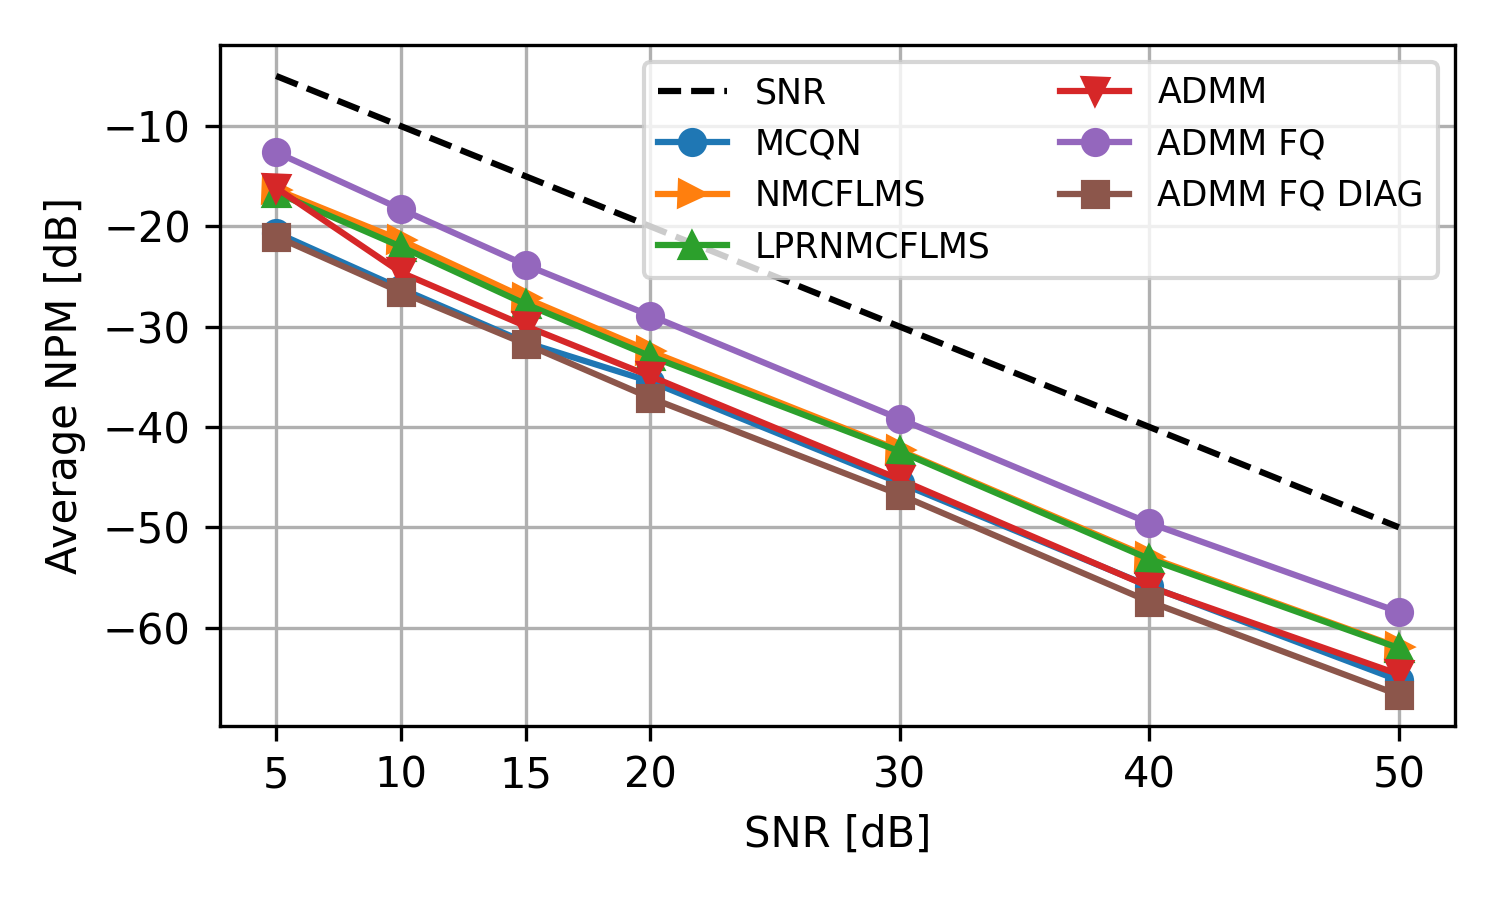
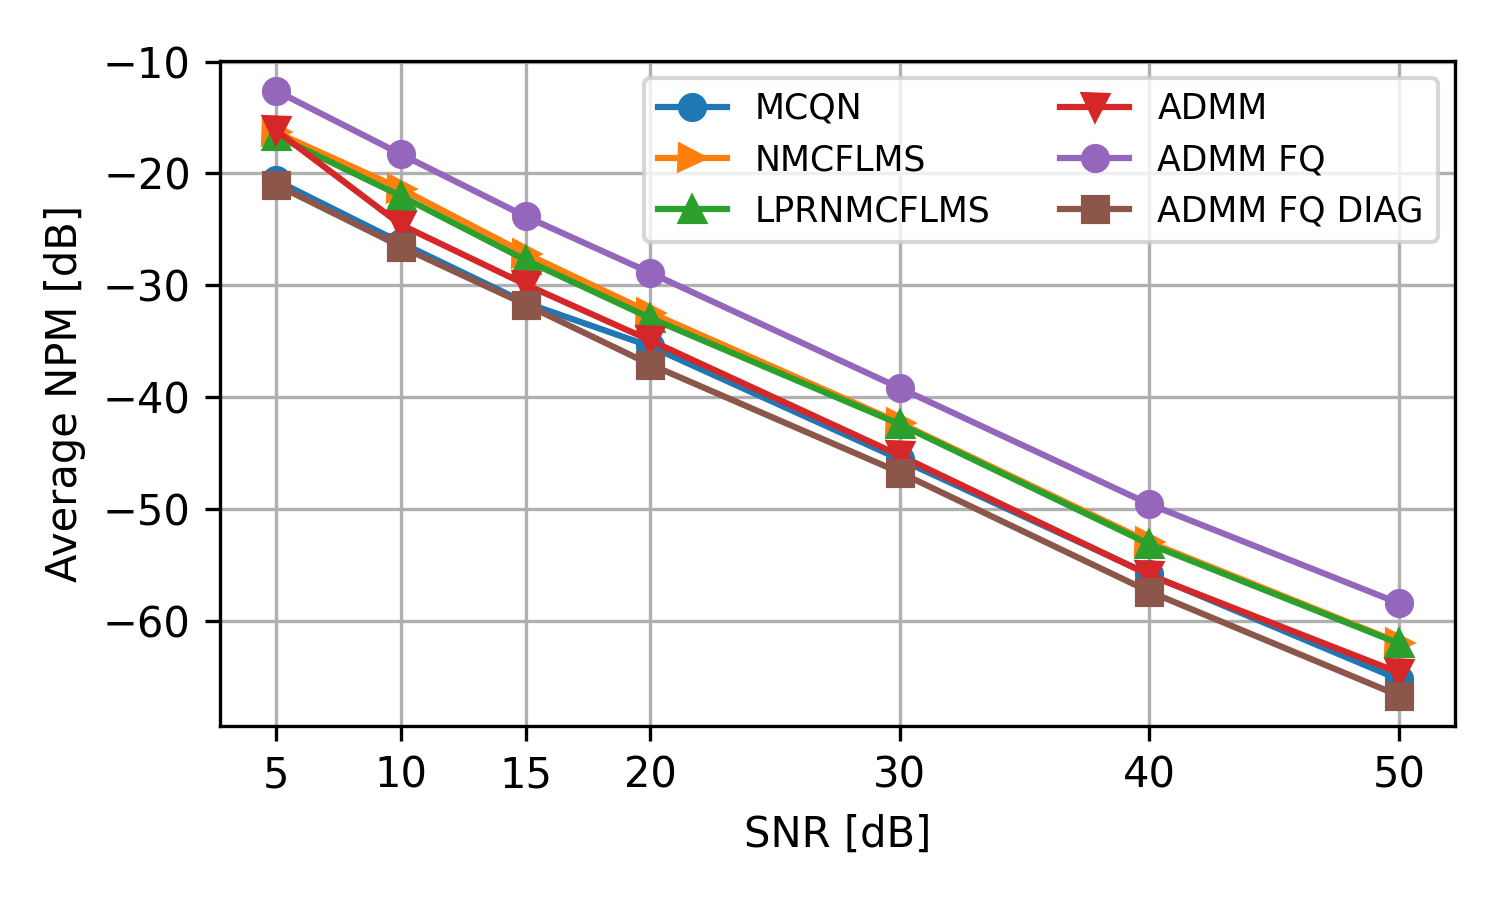
new stuff

Changed region(s): [[0.0307, 0.0311, 0.9813, 0.7778]]

diff --git a/python/simulation_random_connectivity.py b/python/simulation_random_connectivity.py
@@ -11,31 +11,31 @@ import simo_bsi_central as cent
 import matplotlib.pyplot as plt
 
 # %%
-inp = int(sys.argv[1])
-SNRs = [5, 10, 15, 20, 30, 40, 50]
-SNR = SNRs[inp]
-print("Job: " + sys.argv[1] + "SNR: %d dB" % (SNR))
+process_id = int(sys.argv[1])
+SNR = int(sys.argv[2])
+N_sens = int(sys.argv[3])
+density = float(sys.argv[4])
+print("Job: %d, SNR: %d, N_sens: %d, density: %f" % (process_id, SNR, N_sens, density))
 
 # %%
-runs = 20
+runs = 50
+seed = 12345
 plot = False
 
 # %%
 L = 16
 N_f = 1024
-N_sens = 5
 
 # %%
 N_s = 16000
 
 # %%
-seed = 12345
 rng = np.random.RandomState()
 rng.seed(seed)
 
 # %%
 for run in range(runs):
-    if os.path.isfile("data/%d_%d.npy" % (inp, run)):
+    if os.path.isfile("data/%d_%d.npy" % (process_id, run)):
         print("run %d is already there" % (run))
         continue
     # %%
@@ -66,9 +66,23 @@ for run in range(runs):
         plt.show()
 
     # %%
+    # connectivity: ring + random inbetween ones
+    G = utils.generateConnectionMatrix(N_sens, density, rng)
+    offdiag = np.arange(N_sens - 1)
+    G[offdiag, offdiag + 1] = 1  # setting the directed ring as base
+    np.fill_diagonal(G, 0)
+
     network_td = admm.Network(L)
+    network_newton_fq = sb_newton_fq.Network(L)
+    network_newton_fq_diag = sb_newton_fq_diag.Network(L)
+
     rho = 1
-    network_td.addNode("node1", rho)
+    for n in range(N_sens):
+        name = "node%d" % (n)
+        network_td.addNode(name, rho)
+        network_newton_fq.addNode(name, rho)
+        network_newton_fq_diag.addNode(name, rho)
+
     network_td.addNode("node2", rho)
     network_td.addNode("node3", rho)
     network_td.addNode("node4", rho)
@@ -82,9 +96,7 @@ for run in range(runs):
     network_td.setConnection("node5", ["node1"])
     network_td.setBufferSize(1)
 
-    network_newton_fq = sb_newton_fq.Network(L)
     rho = 0.01
-    network_newton_fq.addNode("node1", rho)
     network_newton_fq.addNode("node2", rho)
     network_newton_fq.addNode("node3", rho)
     network_newton_fq.addNode("node4", rho)
@@ -98,7 +110,6 @@ for run in range(runs):
     network_newton_fq.setConnection("node5", ["node1"])
     network_newton_fq.setBufferSize(1)
 
-    network_newton_fq_diag = sb_newton_fq_diag.Network(L)
     rho = 0.01
     network_newton_fq_diag.addNode("node1", rho)
     network_newton_fq_diag.addNode("node2", rho)

diff --git a/python/plot_data.py b/python/plot_data.py
@@ -6,6 +6,7 @@ import utils
 
 # import scipy.signal as signal
 import matplotlib.pyplot as plt
+from matplotlib import rc
 
 # %%
 class SimulationData:
@@ -259,7 +260,7 @@ for SNR in SNRs:
 
 # %%
 fig = plt.figure(figsize=(5, 3))
-plt.plot(SNRs, -np.asarray(SNRs), "k--", label="SNR")
+# plt.plot(SNRs, -np.asarray(SNRs), "k--", label="SNR")
 plt.plot(SNRs, 20 * np.log10(err_MCQN_avg), marker="o", label="MCQN")
 plt.plot(SNRs, 20 * np.log10(err_NMCFLMS_avg), marker=">", label="NMCFLMS")
 # plt.plot(SNRs, 20 * np.log10(err_RNMCFLMS_avg), marker="o", label="RNMCFLMS")
